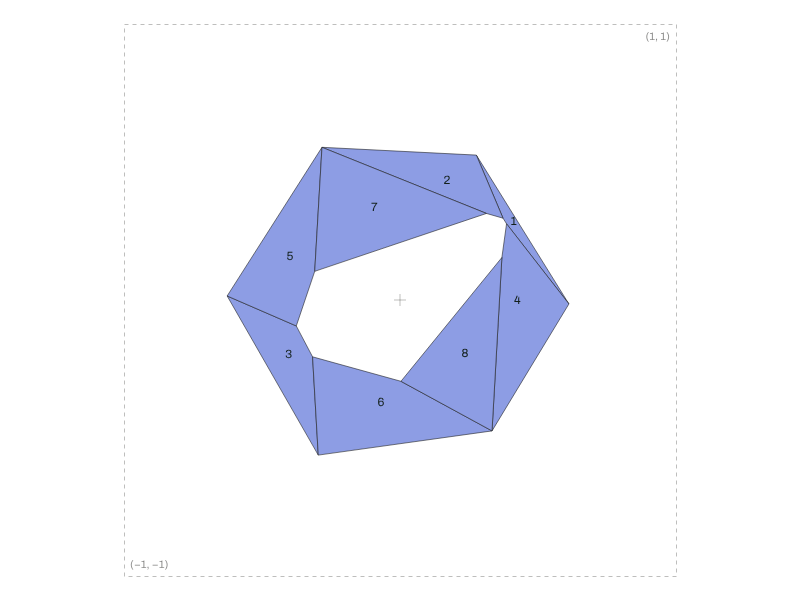
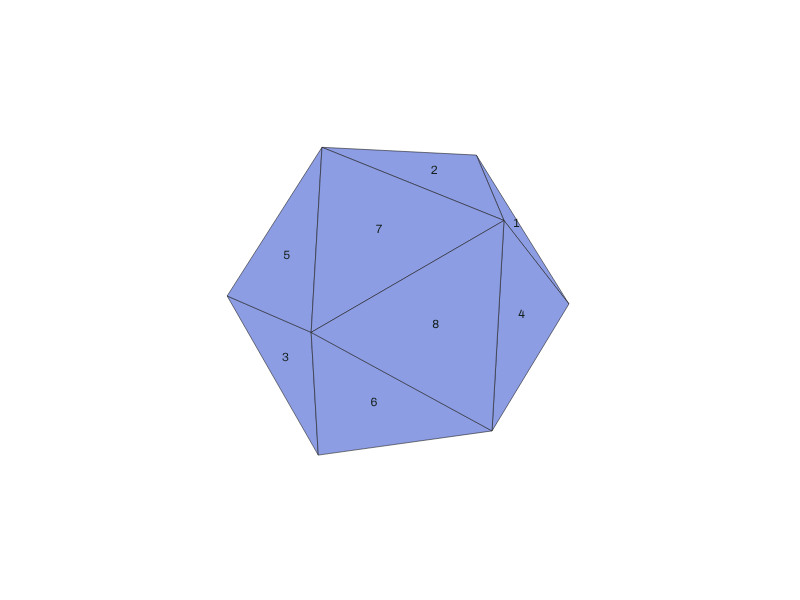
Fit the equity figure, close renderer previews and quicken the hero cycle

diff --git a/index.html b/index.html
@@ -50,7 +50,7 @@
     <section class="hero" id="top" aria-labelledby="heroTitle">
       <div class="heroCopy">
         <h1 class="heroTitle" id="heroTitle">Ethan Lam</h1>
-        <div class="heroWords" aria-hidden="true"><span class="heroLead">I like to build</span> <span class="cycle" data-cycle><span class="cycleWord is-active">renderers.</span><span class="cycleWord">shaders.</span><span class="cycleWord">backtests.</span><span class="cycleWord">chess puzzles.</span></span></div>
+        <div class="heroWords" aria-hidden="true"><span class="heroLead">I like to build</span> <span class="cycle" data-cycle="hero"><span class="cycleWord is-active">renderers.</span><span class="cycleWord">shaders.</span><span class="cycleWord">backtests.</span><span class="cycleWord">chess puzzles.</span></span></div>
         <p class="sr-only">I like to build renderers, shaders, backtests and chess puzzles.</p>
         <p class="heroFact">Computer engineering · Georgia Tech ’28</p>
       </div>
@@ -67,11 +67,11 @@
 
       <!-- 01 — wide spread, visual left -->
       <article class="proj proj--renderer grid" id="work-renderer" data-project="renderer">
-        <figure class="plate plate--light" style="--ar:3/2">
+        <figure class="plate plate--light" style="--ar:4/3">
           <a class="plateVis" href="#project/renderer" aria-label="Open software renderer case study">
-            <picture><source type="image/webp" srcset="assets/renderer-cover-768.webp 768w, assets/renderer-cover.webp 1536w" sizes="(max-width:1099px) 100vw, 62vw"><img src="assets/renderer-cover.webp" width="1536" height="1024" alt="Illustrated exploded rendering pipeline, with geometry and shaded output arranged across four panels." loading="lazy" decoding="async"></picture>
+            <picture><img src="assets/pipeline-5.png" width="800" height="600" alt="A closed icosahedron with triangular faces and directional diffuse shading." loading="lazy" decoding="async"></picture>
           </a>
-          <figcaption class="mono">Illustration · Software rendering pipeline</figcaption>
+          <figcaption class="mono">Browser illustration · Solid shaded output</figcaption>
         </figure>
         <div class="projText">
           <p class="projNo" aria-hidden="true">01</p>
@@ -93,11 +93,11 @@
             <div class="pipelineCanvasStack"></div><figcaption class="pipelineCaption">01 / Projection &amp; perspective divide</figcaption>
           </figure>
           <ol class="pipelineSteps">
-            <li tabindex="0"><span class="mono">01 / From points to a picture</span><h3>Projection &amp; perspective divide</h3><p>World, view and projection transforms move vertices into camera space. Dividing by depth maps them into normalized device coordinates. A wireframe keeps the front and back edges visible.</p><img src="assets/pipeline-1.png" width="800" height="600" alt="Projected wireframe icosahedron, showing front and back edges." loading="lazy" decoding="async"></li>
+            <li tabindex="0"><span class="mono">01 / From points to a picture</span><h3>Projection &amp; perspective divide</h3><p>World, view and projection transforms move vertices into camera space. Dividing by depth maps them into normalized device coordinates. Wireframe edges over a solid shape keep the front and back edges visible.</p><img src="assets/pipeline-1.png" width="800" height="600" alt="Solid icosahedron with projected front and back wireframe edges." loading="lazy" decoding="async"></li>
             <li tabindex="0"><span class="mono">02 / Keep the visible side</span><h3>Backface culling</h3><p>Triangles whose normal points away from the camera are discarded. On a convex mesh, the front faces do not overlap each other: culling alone can fix visibility.</p><img src="assets/pipeline-2.png" width="800" height="600" alt="Flat-filled front faces of the icosahedron with back faces removed." loading="lazy" decoding="async"></li>
-            <li tabindex="0"><span class="mono">03 / Define the depth range</span><h3>NDC clipping</h3><p>Geometry outside the depth range is clipped after the perspective divide. In normalized device coordinates, the depth test becomes a simple range comparison.</p><img src="assets/pipeline-3.png" width="800" height="600" alt="Icosahedron faces clipped to the normalized depth range, with the NDC frame outlined." loading="lazy" decoding="async"></li>
-            <li tabindex="0"><span class="mono">04 / Choose the draw order</span><h3>Painter’s depth sort</h3><p>The remaining faces are drawn far to near. The numbers show their drawing order. Sorting whole polygons fits the Matplotlib output, but is not a per-pixel depth buffer.</p><img src="assets/pipeline-4.png" width="800" height="600" alt="Clipped faces numbered in far-to-near painter’s order." loading="lazy" decoding="async"></li>
-            <li tabindex="0"><span class="mono">05 / Let the normal catch the light</span><h3>Diffuse shading</h3><p>A directional light supplies a per-face brightness: max(0, n·l). Geometry and light direction become the shaded triangles on the page.</p><img src="assets/pipeline-5.png" width="800" height="600" alt="Clipped icosahedron shaded with directional diffuse light." loading="lazy" decoding="async"></li>
+            <li tabindex="0"><span class="mono">03 / Define the depth range</span><h3>NDC clipping</h3><p>Geometry outside the depth range is removed in this cutaway. The original Python renderer clips in NDC; this browser illustration clips in view space before projecting, so the cut edges stay geometrically consistent.</p><img src="assets/pipeline-3.png" width="800" height="600" alt="Icosahedron cut away at the depth boundary, with the NDC frame outlined." loading="lazy" decoding="async"></li>
+            <li tabindex="0"><span class="mono">04 / Choose the draw order</span><h3>Painter’s depth sort</h3><p>The full shape returns here. Visible faces are drawn far to near; the numbers show their drawing order. Sorting whole polygons fits the Matplotlib output, but is not a per-pixel depth buffer.</p><img src="assets/pipeline-4.png" width="800" height="600" alt="Closed icosahedron with faces numbered in far-to-near painter’s order." loading="lazy" decoding="async"></li>
+            <li tabindex="0"><span class="mono">05 / Let the normal catch the light</span><h3>Diffuse shading</h3><p>A directional light supplies a per-face brightness: max(0, n·l). Geometry and light direction become the shaded triangles on the page.</p><img src="assets/pipeline-5.png" width="800" height="600" alt="Closed icosahedron shaded with directional diffuse light." loading="lazy" decoding="async"></li>
           </ol>
         </div>
       </section>

diff --git a/lab/words.js b/lab/words.js
@@ -1,4 +1,7 @@
 export const revealInterval = count => Math.min(35, 580 / Math.max(1, count - 1));
+export const cycleTiming = variant => variant === 'hero'
+  ? { hold: 1400, step: 20, fade: 60, gap: 185 }
+  : { hold: 2600, step: 40, fade: 120, gap: 370 };
 
 export function mountWords(root = document) {
   const reduced = matchMedia('(prefers-reduced-motion: reduce)');
@@ -16,13 +19,15 @@ export function mountWords(root = document) {
   root.querySelectorAll('[data-cycle]').forEach(group => {
     const words = [...group.children];
     if (!words.length) return;
+    const timing = cycleTiming(group.dataset.cycle);
+    group.style.setProperty('--word-fade', `${timing.fade}ms`);
     const letters = words.map(word => {
       const chars = Array.from(word.textContent, char => {
         const span = document.createElement('span'); span.className = 'wordChar'; span.textContent = char; return span;
       });
       word.replaceChildren(...chars); return chars;
     });
-    let index = 0, timer = 0, visible = false, next = null, remaining = 2600, due = 0;
+    let index = 0, timer = 0, visible = false, next = null, remaining = timing.hold, due = 0;
     function resume() {
       if (timer || !next || !visible || document.hidden || reduced.matches || paused) return;
       due = performance.now() + remaining;
@@ -33,8 +38,8 @@ export function mountWords(root = document) {
     function enter() {
       words[index].classList.add('is-active');
       const chars = letters[index]; chars.forEach(c => c.style.opacity = '0'); let i = 0;
-      const step = () => { if (chars[i]) chars[i++].style.opacity = '1'; if (i < chars.length) schedule(step, 40); else schedule(leave, 2720); };
-      schedule(step, 40);
+      const step = () => { if (chars[i]) chars[i++].style.opacity = '1'; if (i < chars.length) schedule(step, timing.step); else schedule(leave, timing.hold + timing.fade); };
+      schedule(step, timing.step);
     }
     function leave() {
       const order = [...letters[index]];
@@ -42,16 +47,16 @@ export function mountWords(root = document) {
       let i = 0;
       const step = () => {
         if (order[i]) order[i++].style.opacity = '0';
-        if (i < order.length) schedule(step, 40);
-        else schedule(() => { words[index].classList.remove('is-active'); index = (index + 1) % words.length; enter(); }, 370);
+        if (i < order.length) schedule(step, timing.step);
+        else schedule(() => { words[index].classList.remove('is-active'); index = (index + 1) % words.length; enter(); }, timing.gap);
       };
       step();
     }
     function preference() {
       pause(); index = 0;
       words.forEach((word, i) => word.classList.toggle('is-active', i === 0));
-      letters.flat().forEach(c => c.style.opacity = '1');
-      schedule(leave, 2600);
+      letters.forEach((chars, i) => chars.forEach(c => c.style.opacity = i === 0 ? '1' : '0'));
+      schedule(leave, timing.hold);
     }
     const visibility = () => document.hidden ? pause() : resume();
     toggles.push(() => paused ? pause() : resume());

diff --git a/styles.css b/styles.css
@@ -627,7 +627,7 @@ html:not(.js) .nav{ background:var(--mist); }
 .projNo{ font:500 14px/1.5 var(--text); letter-spacing:0; color:var(--ink-3); }
 .proj--thermal .projText{ grid-column:1/5; padding-top:0; }
 .proj--thermal .plate{ grid-column:6/13; margin-top:90px; }
-.proj--vol .plate{ grid-column:1/12; grid-row:1; margin-top:0; }
+.proj--vol .plate{ grid-column:1/-1; grid-row:1; margin-top:0; width:100%; max-width:820px; justify-self:center; }
 .proj--vol .projText{ display:grid; grid-template-columns:repeat(11,minmax(0,1fr)); gap:20px var(--gap); grid-column:1/12; grid-row:2; padding:40px 0 0; }
 .proj--vol .projNo{ grid-column:1/5; }
 .proj--vol .bigStat{ grid-column:1/6; grid-row:2/5; margin:0; font:400 clamp(80px, 10.5vw, 150px)/1 var(--display); letter-spacing:-.055em; flex-wrap:wrap; }
@@ -718,7 +718,7 @@ html:not(.js) .nav{ background:var(--mist); }
 .foot p:has(#wordMotion){ grid-column:1/-1; }
 .cycleWord{ grid-area:1/1; visibility:hidden; white-space:pre; }
 .cycleWord.is-active{ visibility:visible; }
-.wordChar{ transition:opacity 120ms linear; }
+.wordChar{ transition:opacity var(--word-fade, 120ms) linear; }
 .reveal-ready .revealChar{ opacity:0; transition:opacity 120ms steps(1,end); }
 .reveal-ready.is-revealed .revealChar{ opacity:1; }
 .contactHello{ grid-column:4/13; margin-top:26px; font:400 italic clamp(28px, 4vw, 48px)/1.15 var(--display); }
@@ -764,6 +764,7 @@ html:not(.js) .nav{ background:var(--mist); }
 .pipeline:not(.is-enhanced) .pipelineSteps{ grid-column:1/-1; display:grid; grid-template-columns:repeat(2,minmax(0,1fr)); gap:32px; }
 @media (max-width:719px){
   .contactHello{ grid-column:1/-1; }
+  .proj--vol .plate{ width:auto; max-width:none; justify-self:stretch; }
   .gamePanels,.approachPieces{ grid-template-columns:minmax(0,1fr); }
   .gamePanel .gameMini{ height:230px; }
   .pipelineLayout{ display:block; margin-top:32px; }

diff --git a/tests/presentation.test.js b/tests/presentation.test.js
@@ -2,7 +2,7 @@ import test from 'node:test';
 import assert from 'node:assert/strict';
 import { readFileSync } from 'node:fs';
 import { imagePoint } from '../lab/lake/annotations.js';
-import { revealInterval } from '../lab/words.js';
+import { revealInterval, cycleTiming } from '../lab/words.js';
 import { clipDepth, pipelineModes } from '../lab/pipeline.js';
 import { fenSquares, chessPreview, strategyPreview } from '../lab/previews.js';
 import { puzzles } from '../lab/chess/puzzles.js';
@@ -24,6 +24,20 @@ test('heading character spacing is 35ms with a 700ms total cap', () => {
   assert.equal(revealInterval(10), 35);
   assert.equal(revealInterval(0), 35);
   assert.ok(revealInterval(150) * 149 + 120 <= 700);
+});
+
+test('only the hero uses the faster readable cycle; other and unspecified cycles keep their timing', () => {
+  assert.deepEqual(cycleTiming('hero'), { hold: 1400, step: 20, fade: 60, gap: 185 });
+  for (const variant of [undefined, '', 'lab', 'contact']) {
+    assert.deepEqual(cycleTiming(variant), { hold: 2600, step: 40, fade: 120, gap: 370 });
+  }
+});
+
+test('only the NDC demonstration cuts away the shape; the first stage has a solid wireframe base', () => {
+  assert.deepEqual(pipelineModes.map(mode => mode.clip), [false, false, true, false, false]);
+  assert.equal(pipelineModes[0].solidWireframe, true);
+  assert.equal(pipelineModes[3].orderLabels, true);
+  assert.equal(pipelineModes[4].stage, 3);
 });
 
 test('depth clipping preserves visible triangles and clips both NDC planes', () => {

diff --git a/lab/pipeline.js b/lab/pipeline.js
@@ -1,9 +1,9 @@
 export const pipelineModes = [
-  { stage: 1, cull: false, sort: false, clip: false, orderLabels: false },
+  { stage: 1, cull: false, sort: false, clip: false, orderLabels: false, solidWireframe: true },
   { stage: 2, cull: true, sort: false, clip: false, orderLabels: false },
   { stage: 2, cull: true, sort: false, clip: true, orderLabels: false },
-  { stage: 2, cull: true, sort: true, clip: true, orderLabels: true },
-  { stage: 3, cull: true, sort: true, clip: true, orderLabels: false },
+  { stage: 2, cull: true, sort: true, clip: false, orderLabels: true },
+  { stage: 3, cull: true, sort: true, clip: false, orderLabels: false },
 ];
 
 export function clipDepth(points, near, far) {

diff --git a/main.js b/main.js
@@ -122,6 +122,10 @@ import("./lab/lake/lake.js").then(({ mountLake }) => mountLake());
           ctx.strokeStyle = s.stage >= 3 ? "rgba(242,239,231,.55)" : "rgba(21,21,19,.55)"; ctx.lineWidth = 1; ctx.stroke();
         });
       } else if (s.stage === 1) {
+        if (s.solidWireframe) {
+          ctx.fillStyle = mix(PAPER, BLUE, .18);
+          all.filter(f => f.facing).forEach(f => { path(f); ctx.fill(); });
+        }
         all.forEach(f => {
           path(f);
           ctx.strokeStyle = f.facing ? "rgba(21,21,19,.82)" : "rgba(21,21,19,.22)";
